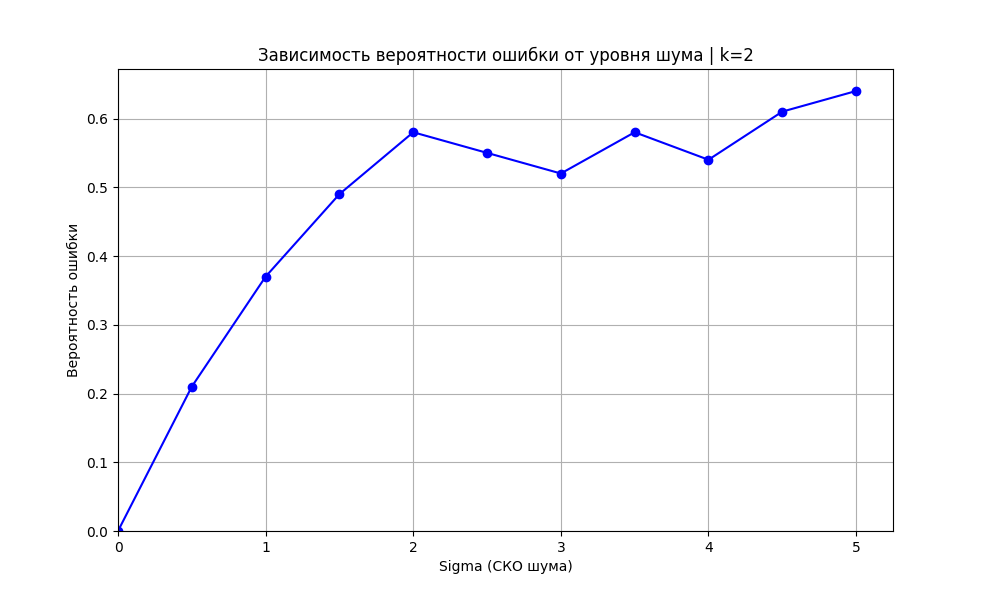
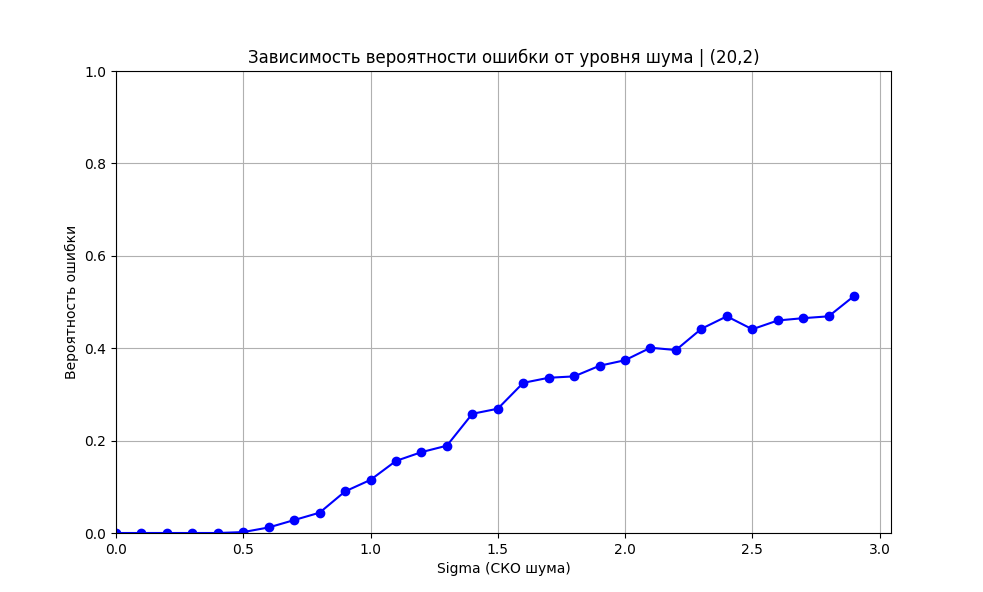
Fix

diff --git a/src/coder.cpp b/src/coder.cpp
@@ -2,7 +2,6 @@
 #include <iostream>
 
 Coder::Coder(int k) :k_(k) {
-    std::vector<std::vector<int>> G;
     // Copy first k columns from generator_Matrix_A_
     for (size_t i = 0; i < generator_Matrix_A_.size(); i++) {
         std::vector<int> row;
@@ -24,14 +23,14 @@ std::vector<int> Coder::encode(const std::vector<int>& data) {
     // Матричное умножение: codeWord = data * G
     for (int i = 0; i < n_; ++i) {
         for (int j = 0; j < k_; ++j) {
-            codeWord[i] = (codeWord[i] + data[j] * generator_Matrix_A_[j][i]) % 2;  // Умножение по модулю 2
+            codeWord[i] ^= data[j] & G[i][j];  // Умножение по модулю 2
         }
     }
 
     return codeWord;
 }
 
-std::vector<int> Coder::decode(const std::vector<int>& receivedCodeWord) {
+std::vector<int> Coder::decode(const std::vector<double>& receivedCodeWord) {
     if (receivedCodeWord.size() != n_) {
         std::cerr << "Ошибка: Размер принятого кодового слова не соответствует n." << std::endl;
         return {};
@@ -52,15 +51,15 @@ std::vector<int> Coder::decode(const std::vector<int>& receivedCodeWord) {
 
         std::vector<int> possibleCodeWord = encode(possibleData);
 
-        // Вычисляем скалярное произведение
-        int correlation = 0;
+        // Вычисляем Log-Likelihood Ratio (LLR)
+        double llr = 0.0;
         for (size_t j = 0; j < receivedCodeWord.size(); ++j) {
-            correlation += receivedCodeWord[j] * possibleCodeWord[j];
+            llr += (2 * possibleCodeWord[j] - 1) * (2 * receivedCodeWord[j] - 1);
         }
 
-        // Ищем кодовое слово с максимальным скалярным произведением.
-        if (correlation > maxCorrelation) {
-            maxCorrelation = correlation;
+        // Ищем кодовое слово с максимальным LLR
+        if (bestIndex == -1 || llr > maxCorrelation) {
+            maxCorrelation = llr;
             bestIndex = i;
             decodedData = possibleData;
         }

diff --git a/visual.py b/visual.py
@@ -1,7 +1,7 @@
 import matplotlib.pyplot as plt
 import numpy as np
 
-def plot_results(filename="results.txt", k=2):
+def plot_results(filename="results.txt"):
     """
     Читает данные из файла и строит график.
 
@@ -11,20 +11,23 @@ def plot_results(filename="results.txt", k=2):
     try:
         # Чтение данных из файла
         data = np.loadtxt(filename)
-        sigma_values = data[:, 0]  # Первый столбец: sigma
-        error_rates = data[:, 1]   # Второй столбец: error rate
+        
+        k = int(data[0, 0])  # Первая строка: k
+        sigma_values = data[1:, 0]  # Первый столбец: sigma
+        error_rates = data[1:, 1]   # Второй столбец: error rate
 
         # Создание графика
         plt.figure(figsize=(10, 6))  # Размер графика
         plt.plot(sigma_values, error_rates, marker='o', linestyle='-', color='blue')  # Линия и маркеры
 
         # Настройка графика
-        plt.title("Зависимость вероятности ошибки от уровня шума | k={}".format(k))
+        plt.title("Зависимость вероятности ошибки от уровня шума | (20,{})".format(k))
         plt.xlabel("Sigma (СКО шума)")
         plt.ylabel("Вероятность ошибки")
         plt.grid(True)  # Включаем сетку
         plt.xlim(left=0)
-        plt.ylim(bottom=0)
+        plt.ylim(0, 1)
+        #plt.yscale('log')  # Логарифмическая шкала по оси Y
 
         # Отображение графика
         plt.show()
@@ -36,4 +39,4 @@ def plot_results(filename="results.txt", k=2):
 
 
 if __name__ == "__main__":
-    plot_results("build/results.txt", 6)  # Вызов функции для построения графика
+    plot_results("build/results.txt")  # Вызов функции для построения графика

diff --git a/src/orchestrator.cpp b/src/orchestrator.cpp
@@ -6,6 +6,7 @@
 #include <vector>
 #include <fstream>
 
+// int k, int numSimulations, double startSigma, double endSigma, double sigmaStep
 Orchestrator::Orchestrator(int k, int numSimulations, double startSigma, double endSigma, double sigmaStep) :
     k_(k),
     numSimulations_(numSimulations),
@@ -20,9 +21,11 @@ void Orchestrator::runSimulations() {
         std::cerr << "Ошибка: не удалось открыть файл для записи результатов!" << std::endl;
         return;
     }
-
+    
     int k = k_;
     Coder coder(k);
+    
+    outputFile << k << " "<< k << std::endl;
 
     for (double sigma = startSigma_; sigma <= endSigma_; sigma += sigmaStep_) {
         Channel channel(sigma); // Создаем канал с текущим значением СКО
@@ -32,7 +35,7 @@ void Orchestrator::runSimulations() {
             std::vector<int> data = Utils::generateRandomData(k);
             std::vector<int> codeWord = coder.encode(data);
             std::vector<double> noisyCodeWord = channel.awgn(codeWord);
-            std::vector<int> decodedData = coder.decode(std::vector<int>(noisyCodeWord.begin(), noisyCodeWord.end())); // Преобразуем double в int
+            std::vector<int> decodedData = coder.decode(noisyCodeWord); // Преобразуем double в int
 
             double errorRate = Utils::calculateErrorRate(data, decodedData);
             totalErrors += (errorRate > 0); // Если есть ошибки, считаем как одну ошибку

diff --git a/main.cpp b/main.cpp
@@ -11,7 +11,7 @@ int k = 2;
 // Coder coder(k);
 // Channel channel(1.0); // Примерное значение СКО
 
-Orchestrator orchestrator(6, 100, 0.0, 5.0, 0.5); // Задаем параметры симуляции
+Orchestrator orchestrator(4, 1000, 0.0, 3.0, 0.1); // Задаем параметры симуляции
 
 orchestrator.runSimulations();
 

diff --git a/src/coder.h b/src/coder.h
@@ -7,7 +7,7 @@ class Coder {
     public:
     Coder(int k);
     std::vector<int> encode(const std::vector<int>& data);
-    std::vector<int> decode(const std::vector<int>& receivedCodeWord);
+    std::vector<int> decode(const std::vector<double>& receivedCodeWord);
     
     private:
     const int n_ = 20;

diff --git a/README.md b/README.md
@@ -3,5 +3,8 @@
 ## Код (20,2)
 <img src="img/2.png" width="600" /> 
 
-## Код (20,6)
-<img src="img/6.png" width="600" /> 
+## Код (20,64)
+<img src="img/4.png" width="600" /> 
+
+## Код (20,11)
+<img src="img/11.png" width="600" /> 
